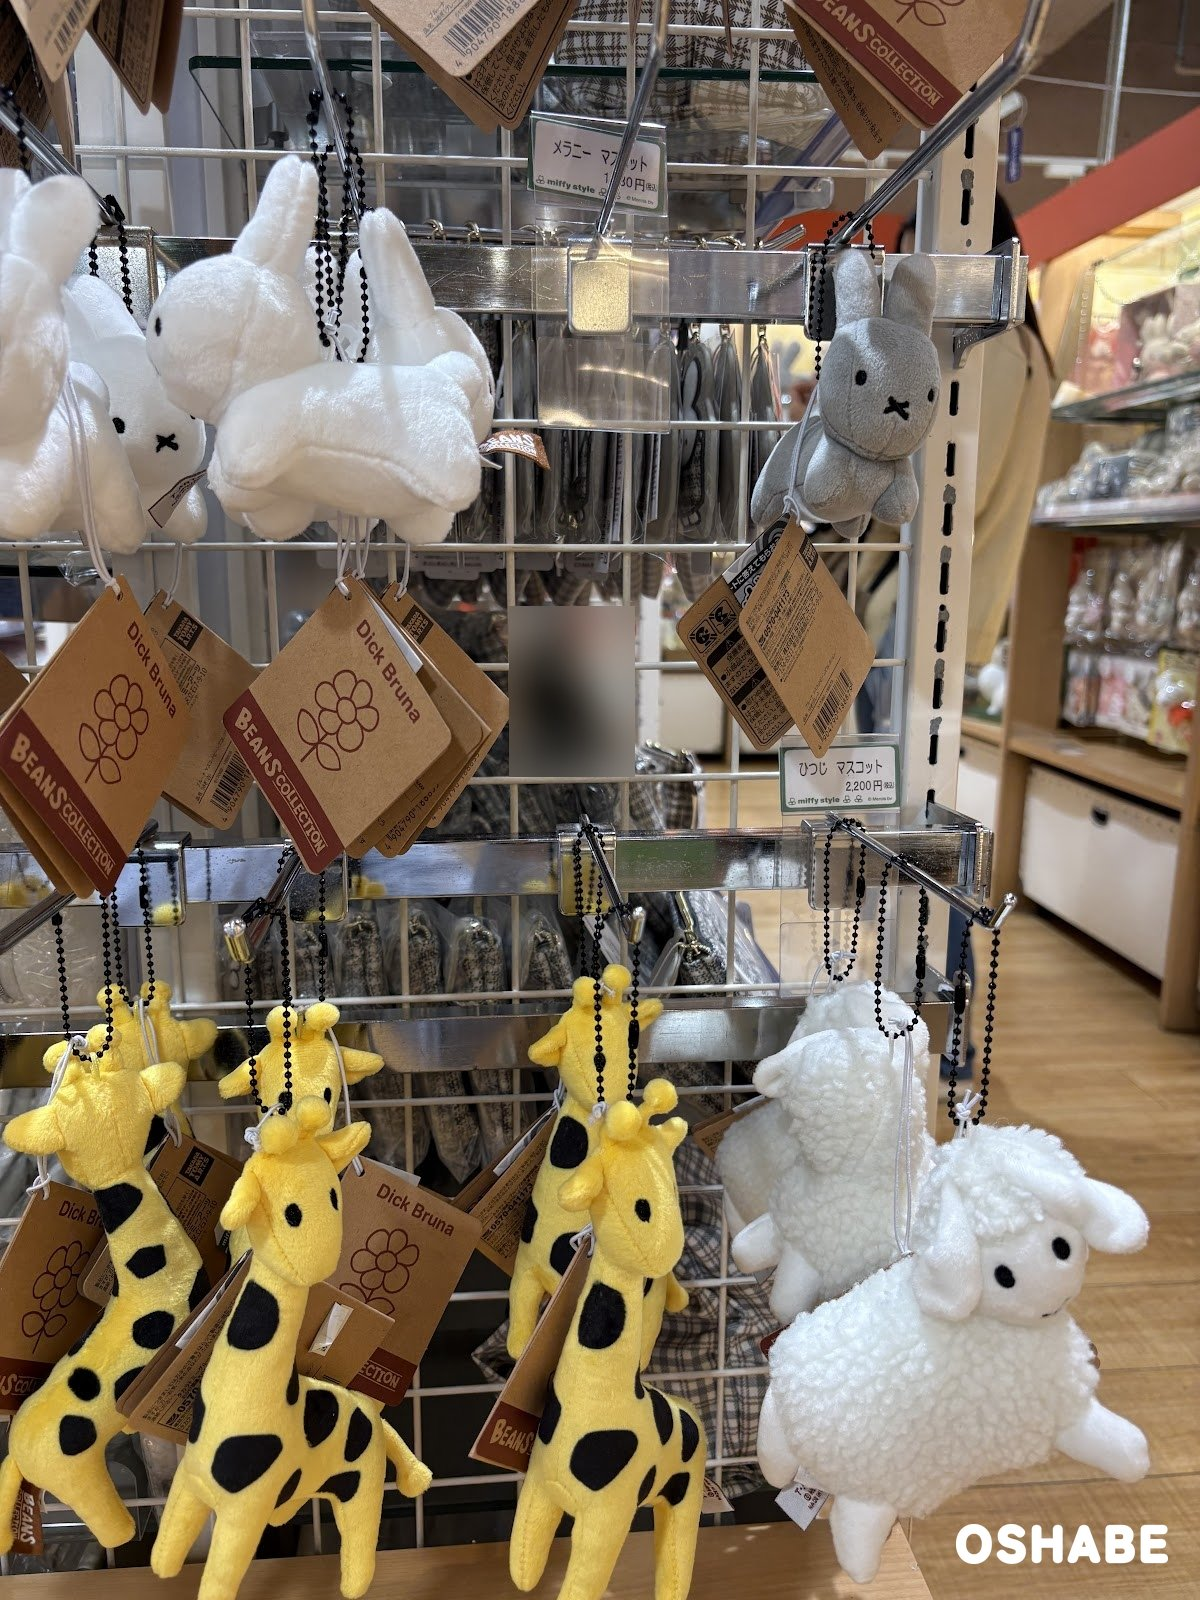
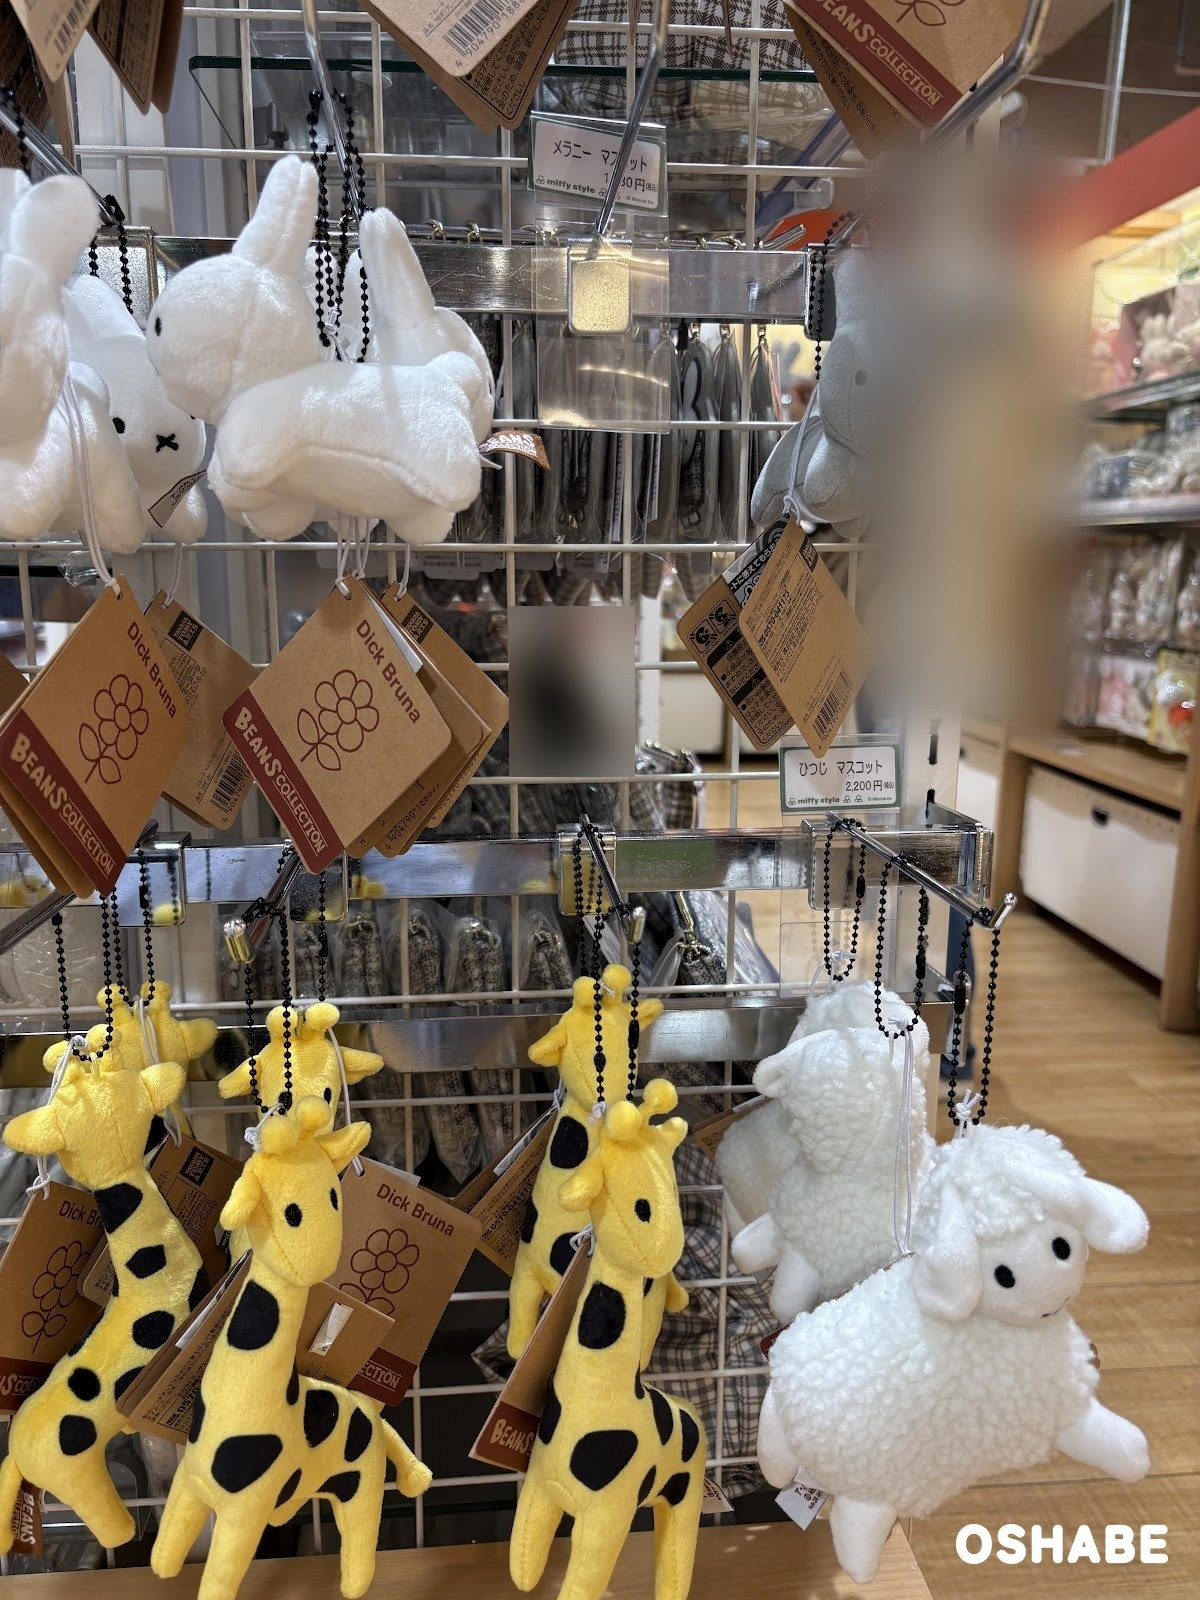
ミッフィースタイルの記事の名前と値段を値札と棚の札に合わせ、写り込みをぼかす

Changed region(s): [[0.6783, 0.0625, 0.925, 0.4688]]

diff --git a/src/content/posts/2026/11/25/miffy-style-goods.md b/src/content/posts/2026/11/25/miffy-style-goods.md
@@ -1,107 +1,173 @@
 ---
 title: "ミッフィースタイルのグッズ2026【画像・値段】ポーチ、マスコット"
 pubDate: "2026-11-25"
-description: "ミッフィースタイルのグッズを売り場の写真10枚で紹介。リボンとツイードを合わせた小物4種類、白いカラビナ付きのうさぎ、税込330円のソフトマスコットなど、服の柄や形を見比べられます。"
-categories: ["グッズ", "プチプラ", "クリスマス"]
+description: "ミッフィースタイルのグッズを売り場の写真10枚で紹介。リボンとツイードのポーチ、ビーンズコレクションのマスコット、ソフトマスコット、SSサイズのぬいぐるみなど、税込330円から5,280円まで。"
+categories: ["グッズ", "プチプラ"]
 cover: "../../../../images/2026-11-17-miffy-style-goods-03.jpg"
 coverPosition: "50% 61%"
 ---
+
 ピンクのリボンの下に、同じ色の服を着たミッフィーがちょこんと座っています。
 
 毎日使うバッグに、お気に入りのミッフィーをひとつ付けたい方も多いですよね！
 
-今回は「ミッフィースタイルのポーチとマスコット」について紹介していきたいと思います。
+今回は『ミッフィースタイルのポーチとマスコット』について紹介していきたいと思います☆
 
 ## ミッフィースタイルのグッズ2026【画像一覧】
 
-### エレガントリボンシリーズ
+値段は、店頭の値札と棚の札、メーカーの公式の情報で確かめた税込の値段です。
+
+### リボンとツイードのポーチ
 
 キーホルダー
 
-![大きなリボンの下にミッフィーが座ったキーホルダー](../../../../images/2026-11-17-miffy-style-goods-01.jpg)
+![](../../../../images/2026-11-17-miffy-style-goods-01.jpg)
 
-税込1,925円です。リボンは耳をすっぽり隠しそうな大きさです。バッグの持ち手に付けると、服とリボンの色合わせがよく見えますね。
+税込1,925円です。
+
+ベロアのような大きなリボンの下に、ミッフィーの顔が付いています。リボンはアイボリー・ピンク・黒の3色が並んでいました。
+
+バッグの持ち手に付けると、服とリボンの色合わせがよく見えます。
 
 スマートキーケース
 
-![アイボリーとピンクのスマートキーケース](../../../../images/2026-11-17-miffy-style-goods-02.jpg)
+![](../../../../images/2026-11-17-miffy-style-goods-02.jpg)
 
-税込2,970円です。四角いケースの真ん中に白いお顔があり、その下に小さなリボンが付いています。上の丸い金具をバッグに留めておくと、鍵を取り出すときに便利です。
+税込2,970円です。
+
+ツイードの四角いケースの真ん中に白いお顔があり、その下に小さなリボンとパールが付いています。
+
+上の丸い金具をバッグに留めておけば、鍵を探さずに取り出せます。
 
 ダイカットポーチ
 
-![色違いの服を着たミッフィーのダイカットポーチ](../../../../images/2026-11-17-miffy-style-goods-03.jpg)
+![](../../../../images/2026-11-17-miffy-style-goods-03.jpg)
 
-税込2,200円です。耳から足まで、ミッフィーの姿がそのままポーチになっています。淡い色の2つと並べると、黒い服の細かなチェック柄が引き立ちますね。
+税込2,200円です。
+
+耳から足まで、ミッフィーの姿がそのままポーチになっています。服はピンク・白・千鳥格子の3種類で、黒い服の細かな柄が目を引きます。
 
 ボックスポーチ
 
-![小さなリボンとパール風の飾りが付いたボックスポーチ](../../../../images/2026-11-17-miffy-style-goods-04.jpg)
+![](../../../../images/2026-11-17-miffy-style-goods-04.jpg)
 
-税込2,750円です。こちらは角の丸い横長の形です。お化粧直しの小物をまとめるなら、こんなポーチはいかがでしょうか。
+税込2,750円です。
+
+角の丸い横長の形で、ツイードの生地にパールのような飾りが散らしてあります。
+
+お化粧直しの小物をまとめるのにちょうどよい大きさです。
 
 | 商品名 | 値段 |
 | --- | --- |
 | キーホルダー | 税込1,925円 |
-| スマートキーケース | 税込2,970円 |
 | ダイカットポーチ | 税込2,200円 |
 | ボックスポーチ | 税込2,750円 |
+| スマートキーケース | 税込2,970円 |
 
 ### チェック柄のポーチ
 
 クリアポーチSS
 
-![茶系のチェックに白い花を合わせたクリアポーチと売り場の小物](../../../../images/2026-11-17-miffy-style-goods-06.jpg)
+![](../../../../images/2026-11-17-miffy-style-goods-06.jpg)
 
-税込1,430円です。チェック柄に白いお顔が重なり、金具のすぐ下には白いお花も付いています。下の棚には、同じようにチェック柄に白いお顔をあしらった小物が並んでいました。
+税込1,430円です。
+
+グレーのチェック柄に白いお顔が重なり、金具のすぐ下には白いお花のチャームも付いています。下の棚には、同じチェック柄のポーチも並んでいました。
 
 ### バッグに付けるマスコット
 
-マスコットビーンズコレクション
+ひつじ マスコット
 
-![黒いボールチェーンで並んだキリンやヒツジのマスコット](../../../../images/2026-11-17-miffy-style-goods-05.jpg)
+![](../../../../images/2026-11-17-miffy-style-goods-05.jpg)
 
-ヒツジは税込2,200円です。つぶつぶした白い毛並みの隣で、黄色いキリンの黒い模様が目を引きます。動物が好きな子供と一緒に選ぶのも楽しそうですね。
+税込2,200円です。
+
+ビーンズコレクションの動物のマスコットで、黒いボールチェーンが付いています。つぶつぶした白い毛並みのひつじの隣では、黄色いキリンの黒い模様が目立っていました。
+
+動物が好きな子供と一緒に選ぶのも楽しいですね♪
 
 ブルーナボンボン ぷっくりチャーム ラビット
 
-![白いうさぎに白いカラビナが付いたブルーナボンボン](../../../../images/2026-11-17-miffy-style-goods-07.jpg)
+![](../../../../images/2026-11-17-miffy-style-goods-07.jpg)
 
-税込1,980円です。横から見ると、丸いしっぽと前に伸ばした足がよく分かります。白いカラビナまで色をそろえた、ミッフィースタイル限定のデザインです。
+税込1,980円です。
+
+横から見ると、丸いしっぽと前に伸ばした足がよく分かります。白いカラビナまで色をそろえた、ミッフィースタイル限定のデザインです。
 
 ミッフィー キーハンガー
 
-![星柄や虹色の服を着た編みぐるみのミッフィー](../../../../images/2026-11-17-miffy-style-goods-08.jpg)
+![](../../../../images/2026-11-17-miffy-style-goods-08.jpg)
 
-耳も手足も、小さな編み目でできています。濃い青の服には黄色い星がひとつ。虹色のしましまや花柄もあって、贈る相手がよく着る服に合わせて選びたくなりますね。
+耳も手足も、小さな編み目でできた編みぐるみです。濃い青の服には黄色い星がひとつ付いています。
 
-### 棚に並べるマスコット
+虹色のしましまや花柄、真っ赤なニットもあって、贈る相手の好きな色で選べます。
+
+### 棚に並べるソフトマスコット
 
 ソフトマスコット イエロー
 
-![黄色や青いボーダーの服のソフトマスコットが並ぶ棚](../../../../images/2026-11-17-miffy-style-goods-09.jpg)
+![](../../../../images/2026-11-17-miffy-style-goods-09.jpg)
 
-税込330円です。黄色い服のミッフィーの隣には、青いボーダーの服を着た子もいます。机の隅に2つ並べるなら、どの組み合わせにしようか迷っちゃいますね。
+税込330円です。
 
-ブルーナ マスコット うさぎ
+手のひらに乗るくらいの小さなミッフィーが、服やポーズごとに仕切りに入って並んでいます。棚の札で値段を確かめられたのは、次の6種類です。
 
-![白いうさぎのマスコットとライオンやキリンのぬいぐるみ](../../../../images/2026-11-17-miffy-style-goods-10.jpg)
+| 商品名 | 値段 |
+| --- | --- |
+| ソフトマスコット イエロー | 税込330円 |
+| ソフトマスコット なみだ | 税込330円 |
+| ソフトマスコット メラニー | 税込330円 |
+| ソフトマスコット ばんざい | 税込330円 |
+| ソフトマスコット はだか | 税込330円 |
+| ソフトマスコット ひこうきミッフィー | 税込385円 |
 
-税込1,540円です。手前には耳をぴんと立てた白いうさぎが並んでいます。ひとつ下の段には、たてがみが花びらのように広がったライオンもいましたよ。
+机の隅に2つ並べるなら、どの組み合わせにしようか迷っちゃいそうです☆
+
+### ぬいぐるみ
+
+マスコット うさぎ
+
+![](../../../../images/2026-11-17-miffy-style-goods-10.jpg)
+
+税込1,540円です。
+
+真ん中の段には、耳をぴんと立てた白いうさぎがぎっしり並んでいます。上の段にはサッカーボールを抱えたミッフィー、下の段にはライオンやキリン、くまちゃんもいました。
+
+| 商品名 | 値段 |
+| --- | --- |
+| マスコット うさぎ | 税込1,540円 |
+| くまちゃん SS | 税込1,760円 |
+| ライオン SS | 税込1,980円 |
+| キリン SS | 税込1,980円 |
+| ころりんぬいぐるみ | 税込2,970円 |
+| サッカーミッフィーぬいぐるみ | 税込5,280円 |
 
 ## まとめ
 
 いかがでしたか。
 
-ミッフィースタイルには、ツイードのポーチから編みぐるみのマスコットまで揃っていました。
+ミッフィースタイルには、リボンとツイードのポーチ、バッグに付けるマスコット、棚に並べるソフトマスコットやぬいぐるみが揃っていました。
 
-ソフトマスコットは税込330円、ツイードのスマートキーケースは税込2,970円です。
+値段は、ソフトマスコットの税込330円から、サッカーミッフィーぬいぐるみの税込5,280円までです。
 
-ミッフィーが好きな方へのクリスマスプレゼントを探すときにも、服の色やリボンの形が選ぶ手掛かりになりますね。
+ミッフィーが好きな家族や友達へのクリスマスプレゼントを選ぶときは、服の色やリボンの形を手掛かりにしてみてはいかがでしょうか。
 
 ぜひ参考にしてみてくださいね。
 
-## 他のマスコット関連はこちら
+## 他のキャラクターグッズはこちら
 
-- [キデイランドのミャクミャクとサンリオのマスコット](../../../../2026/11/20/kiddyland-myakumyaku-sanrio/)
-- [グッズの記事一覧](../../../../category/goods/)
+▼2026年のキャラクターグッズ
+
+- [キデイランドのミャクミャク日焼けグッズ2026【画像・値段】サンリオ、マスコット](../../../../2026/11/20/kiddyland-myakumyaku-sanrio/)
+- [TOP TOYのMayMei2026【画像・値段】冬のぬいぐるみ、がま口](../../../../2026/11/10/toptoy-maymei-winter/)
+- [ミャクミャクのグッズ2026【画像・値段】クロミャク、ぬいぐるみ、ポーチ](../../../../2026/11/07/myakumyaku-goods/)
+- [シープラ（#C-pla）の新作ガチャ2026【画像・値段】ハム太郎、サンリオ](../../../../2026/11/05/cpla-capsule-toys/)
+- [ポケモンセンターのステッカー2026【画像・値段】シール、4サイズステッカー](../../../../2026/11/01/pokemon-center-stickers/)
+- [ミャクミャクのマスコット2026【画像・値段】ミニぬいぐるみ、キーチェーン](../../../../2026/10/20/myakumyaku-mascot/)
+- [麦わらストアのワンピースグッズ2026【画像・値段】フィギュア、ぬいぐるみ](../../../../2026/10/18/mugiwara-store-goods/)
+- [カプコンストアのカプころん2026【画像・値段】ぬいぐるみ、ロックマン](../../../../2026/10/16/capcorom/)
+- [USJマリオグッズ2026【画像・値段】ヨッシー、スーパースター、ドンキーコング](../../../../2026/09/21/usj-mario-goods/)
+
+▼グッズの記事をまとめて見る
+
+- [グッズの記事の一覧](../../../../category/goods/)
